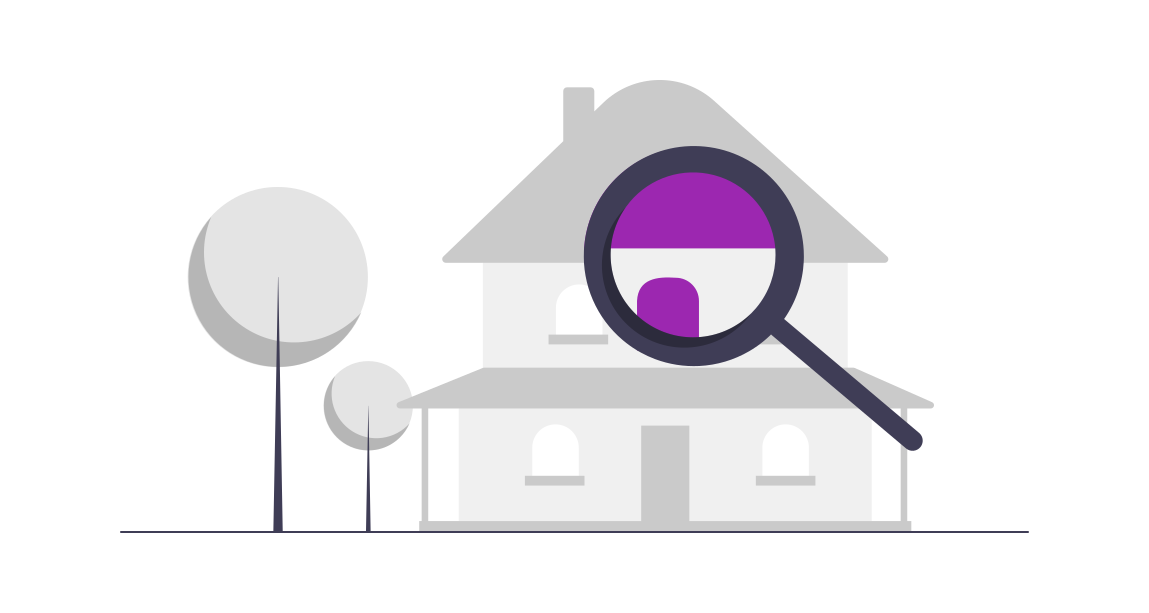
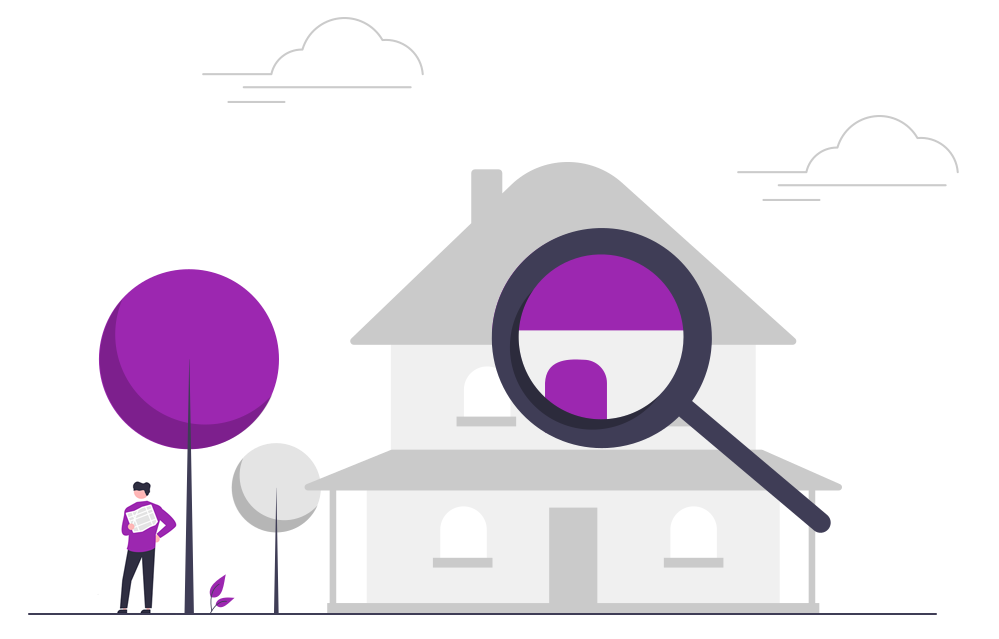
feat(Home Img): Login left img

diff --git a/frontend/src/view/login/login.vue b/frontend/src/view/login/login.vue
@@ -2,7 +2,7 @@
   <div class="loginContainer">
     <Logo />
     <div class="loginLeft">
-      <img src="../../assets/img/loginLeft3.png" />
+      <img src="../../assets/img/loginLeft2.png" style="width: 60%" />
     </div>
     <div class="loginRight">
       <div class="LanguagesSwitchContainer">
@@ -29,7 +29,7 @@ import Logo from '@/components/system/logo.vue'
   width: 100%;
   height: 100%;
   display: flex;
-  background-color: #fff;
+  background-color: #f4f5fa;
   .loginLeft {
     width: 70%;
     display: flex;
@@ -38,7 +38,7 @@ import Logo from '@/components/system/logo.vue'
   }
   .loginRight {
     width: 30%;
-    background-color: #f4f5fa;
+    background-color: #fafafa;
     display: flex;
     align-items: center;
   }
